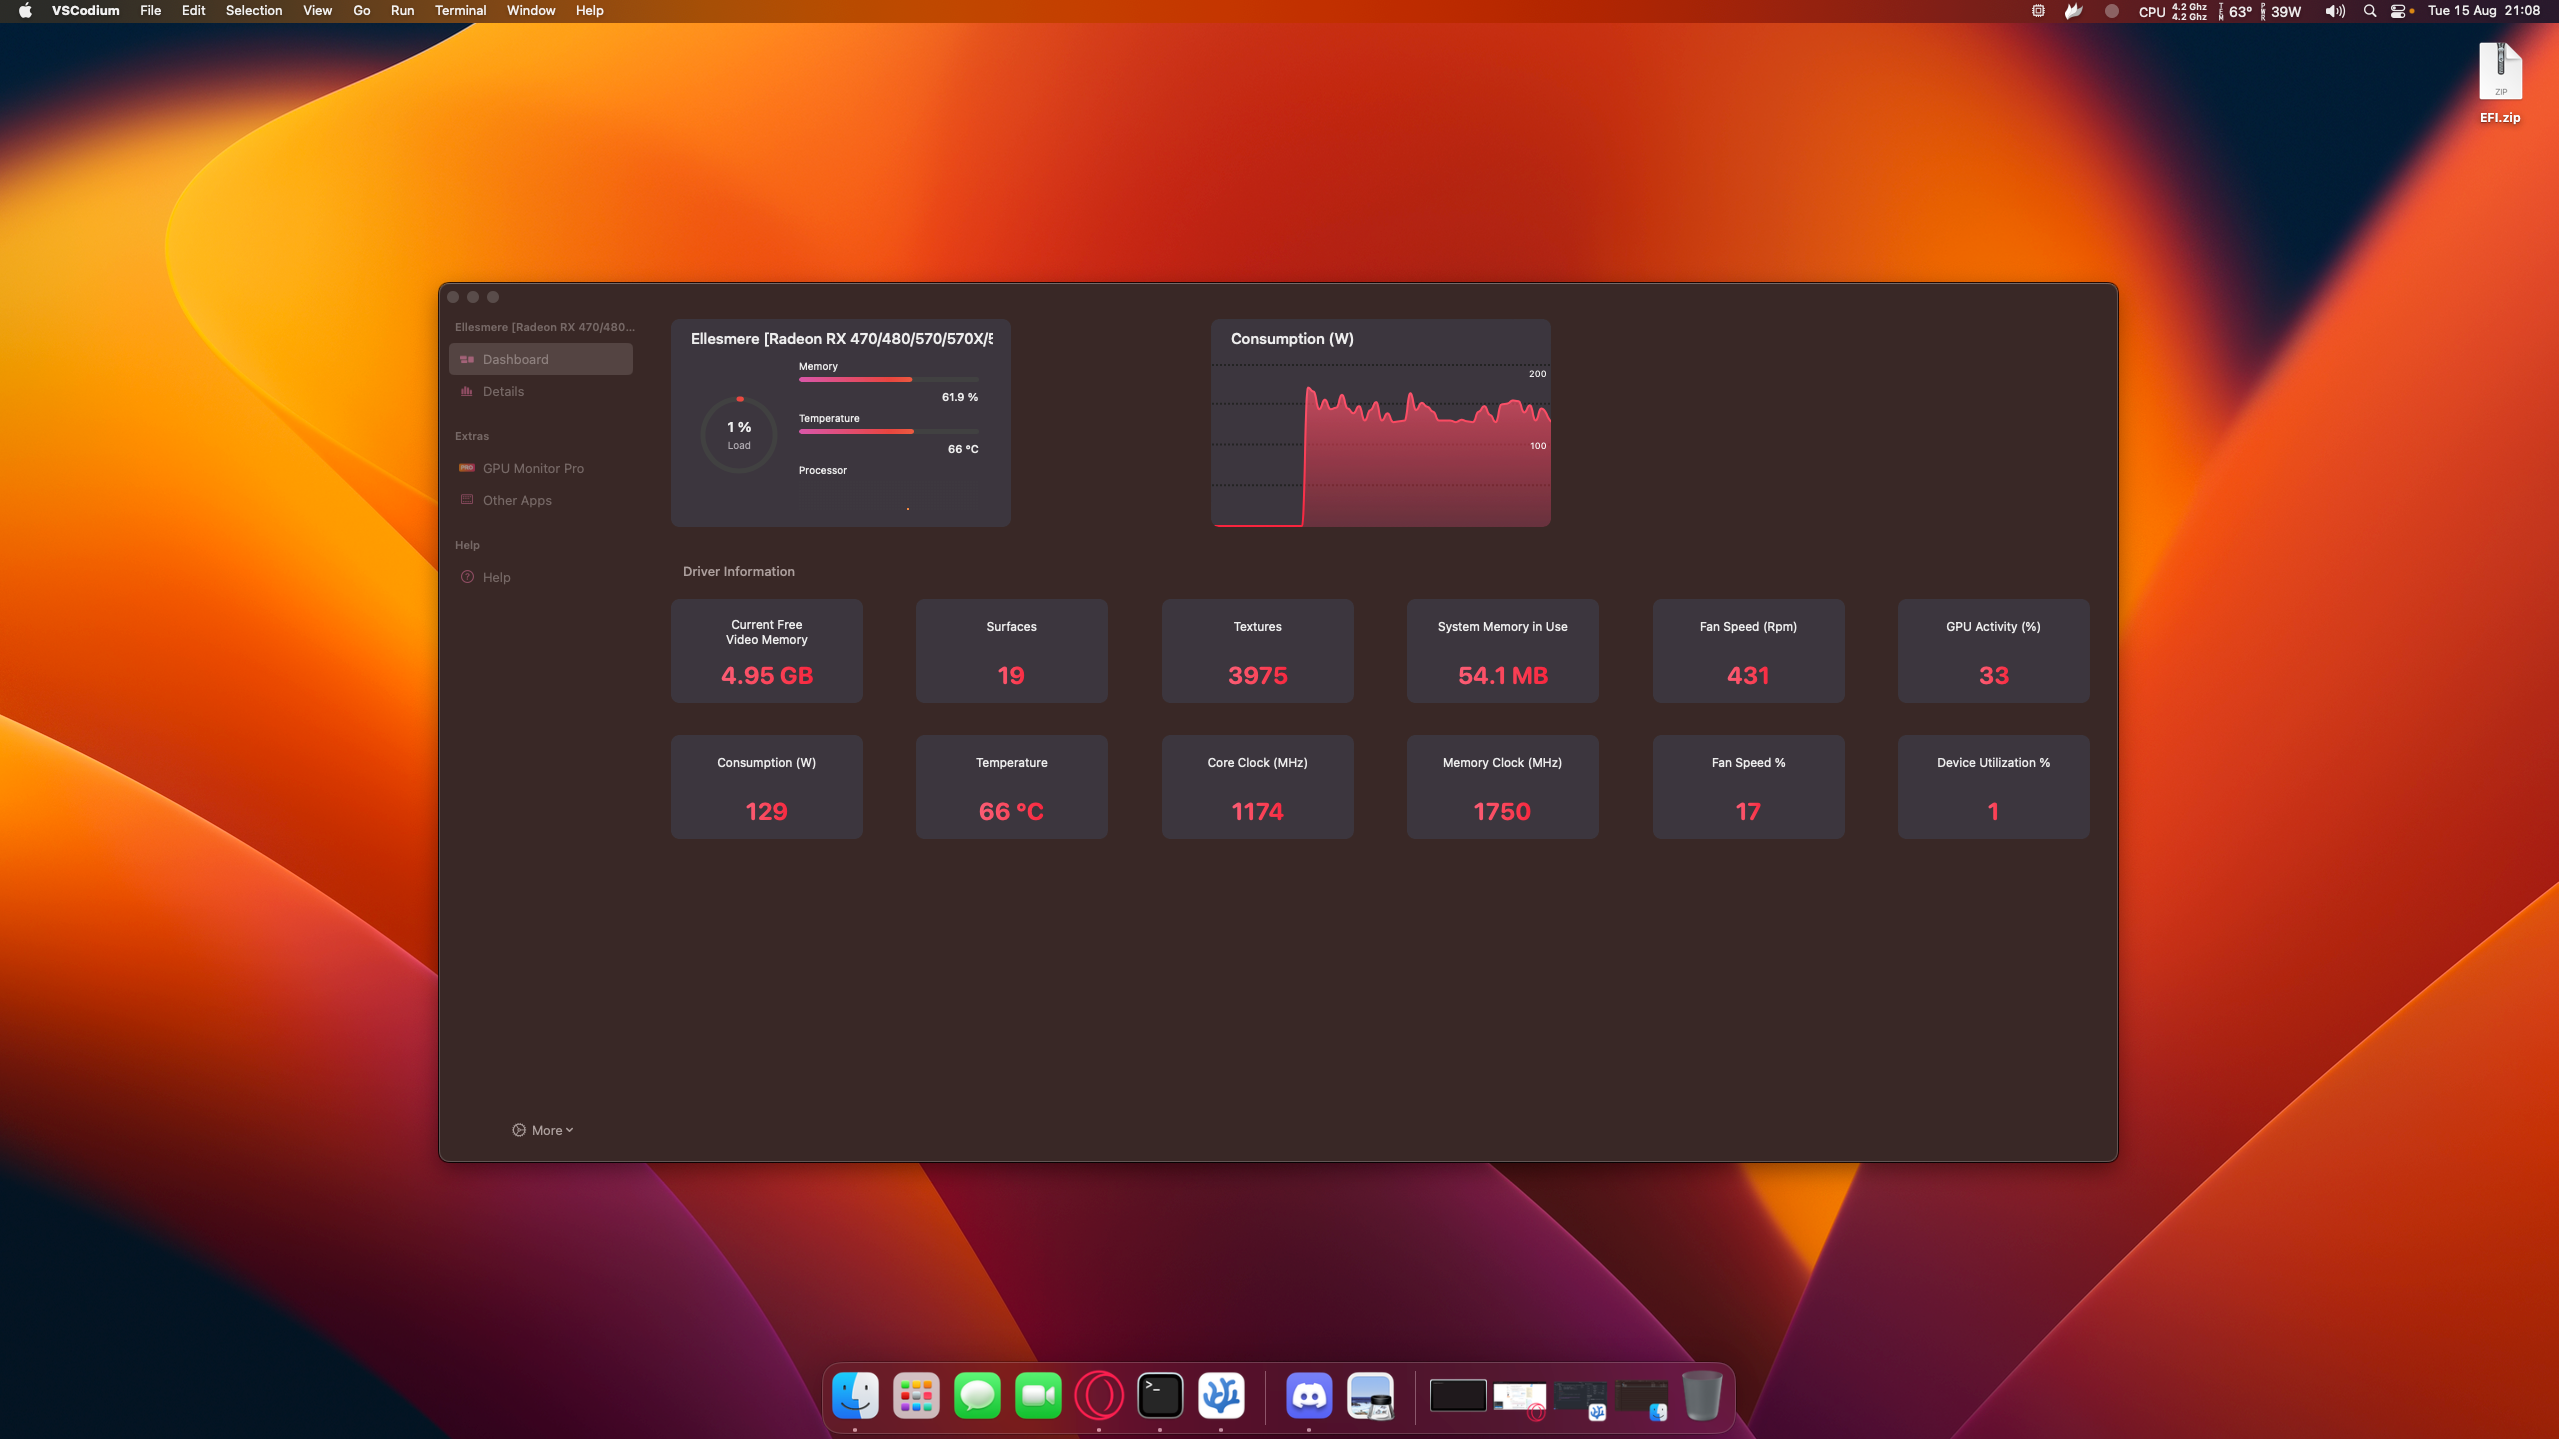
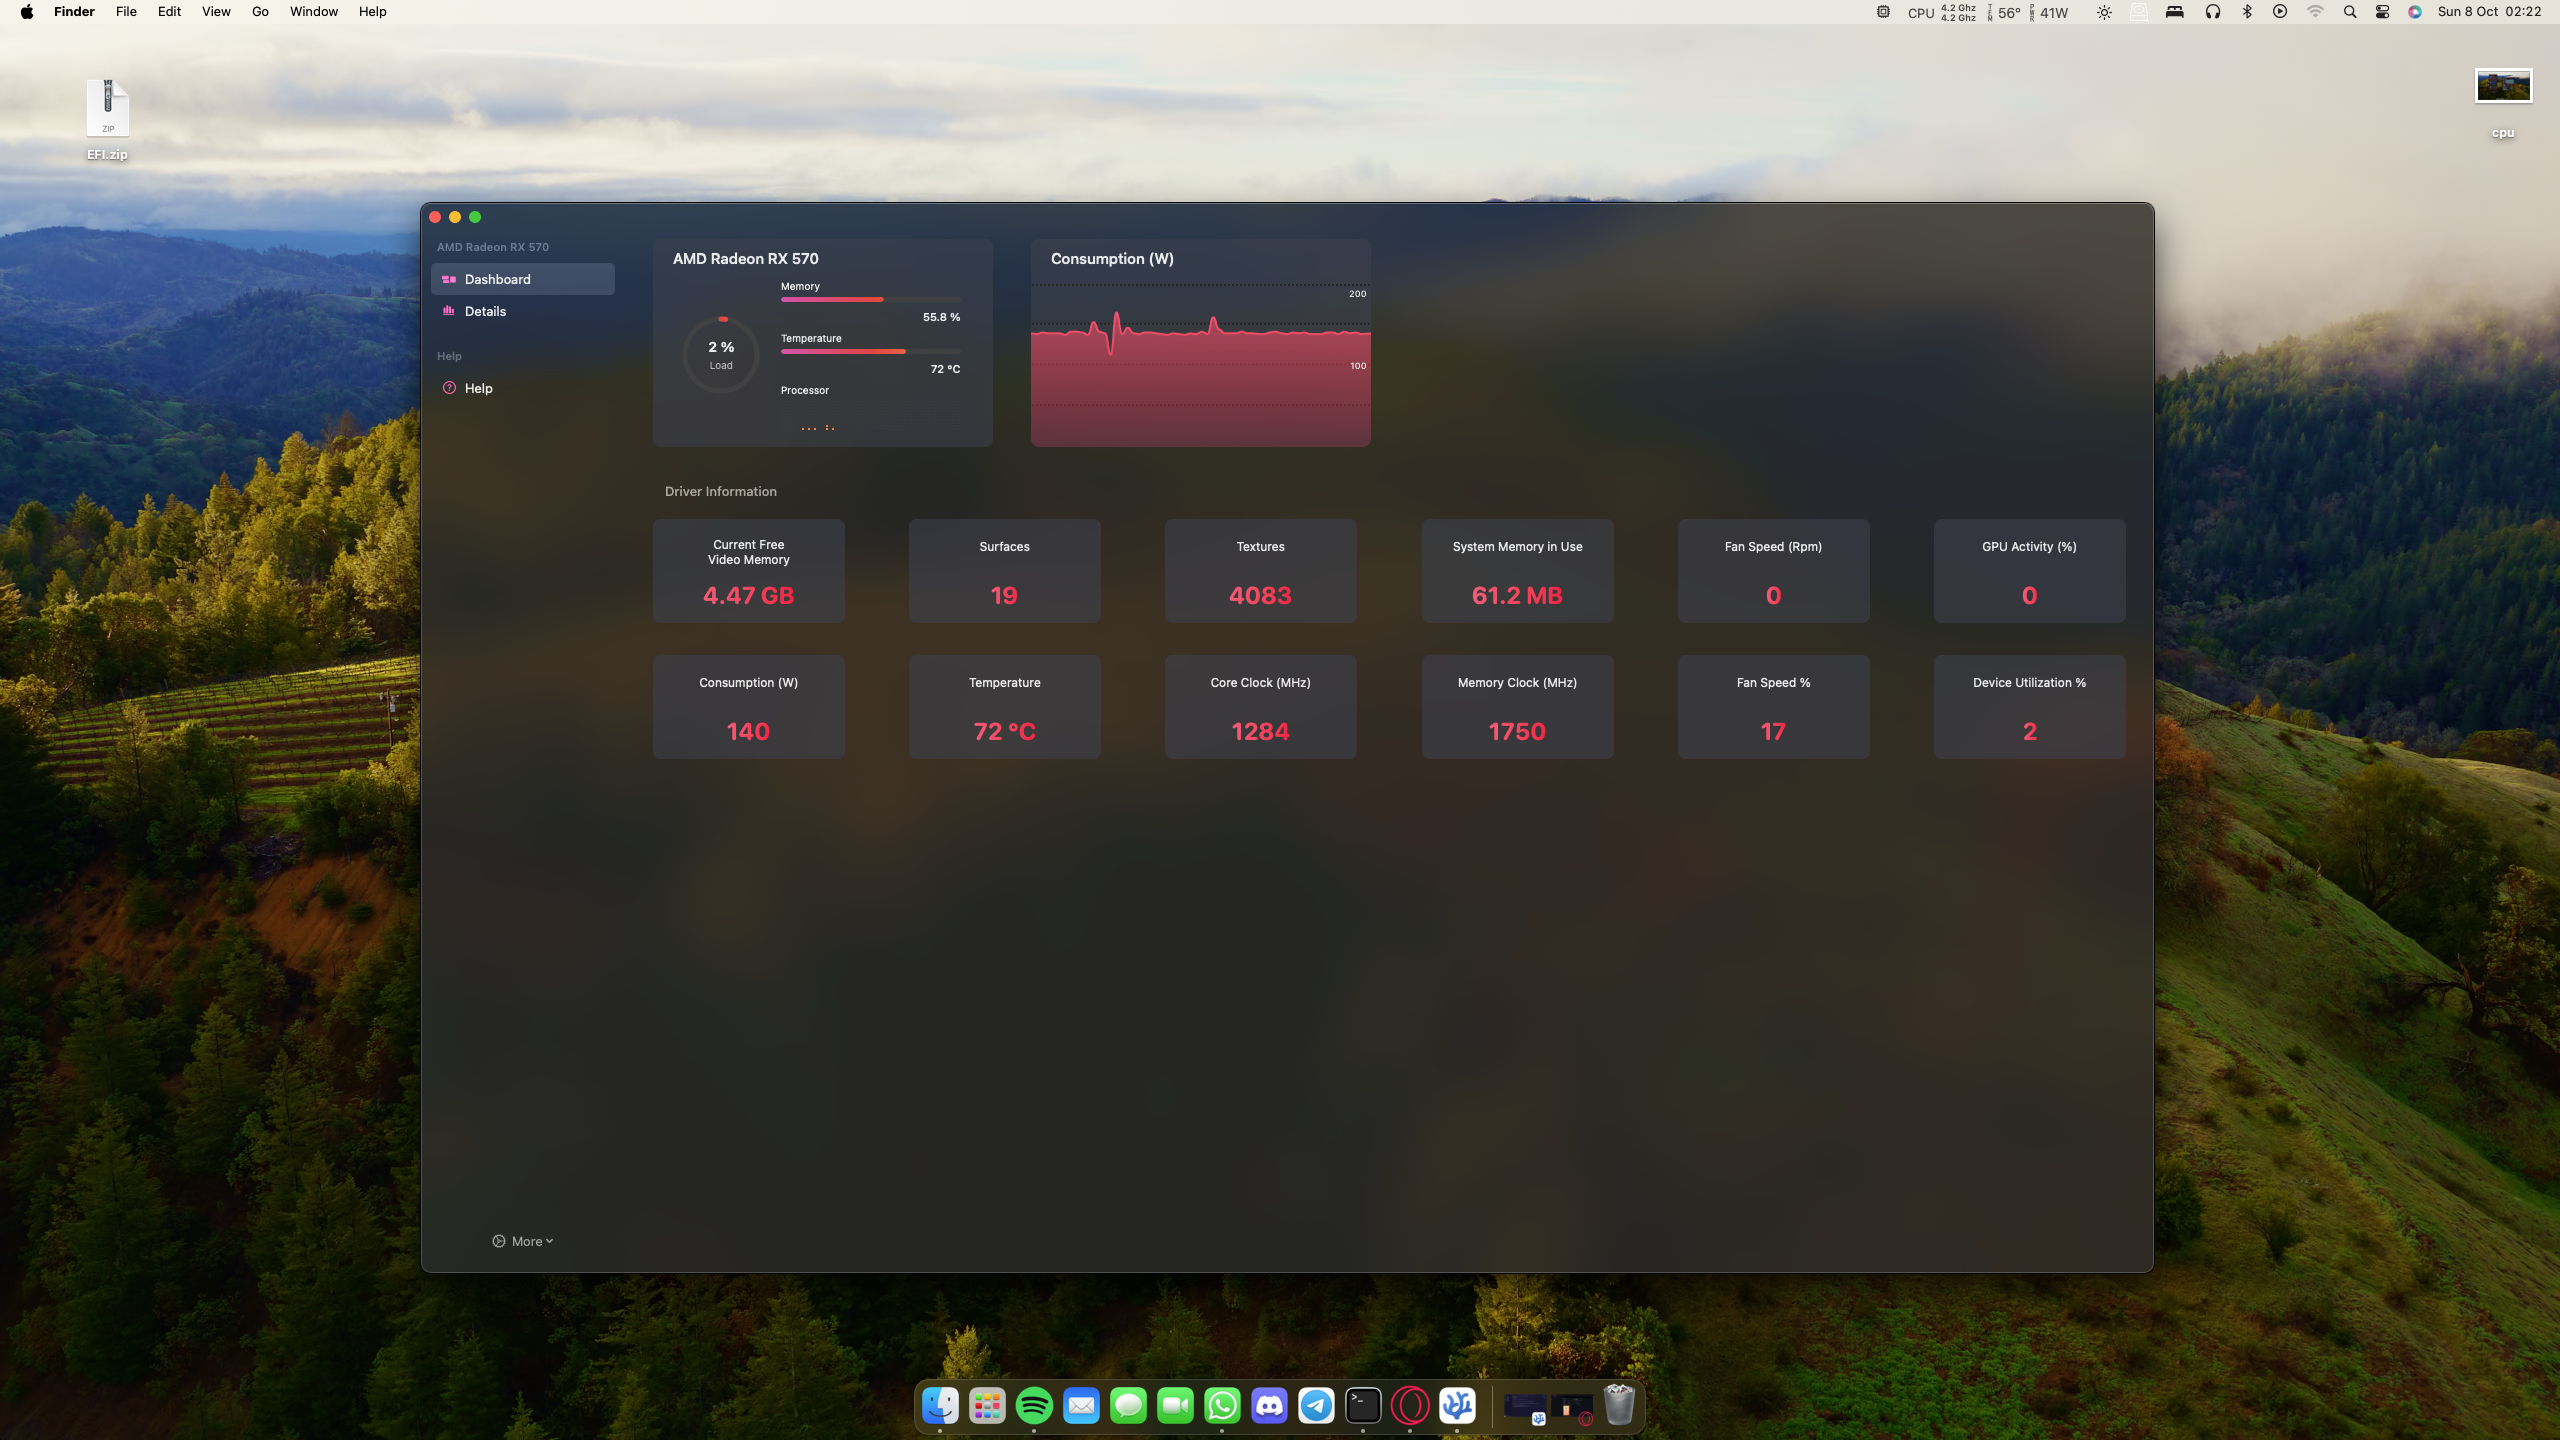
Updated to MacOS Sonoma (REL v4.0)

diff --git a/README.md b/README.md
@@ -1,13 +1,13 @@
-# Hackintosh (Ventura | OC 0.9.5)
+# Hackintosh (Sonoma | OC 0.9.5)
 
-![alt text](https://github.com/danfq/Hackintosh-Ventura-0.9.4/blob/main/Screenshots/system.png?raw=true)
+![alt text](https://github.com/danfq/Hackintosh-Sonoma-0.9.5/blob/main/Screenshots/system.png?raw=true)
 
 After quite a lot of tweaks, twists and turns, I finally made my Build 100% functional.
 
 If you have the same Build, check out the `Releases` Page to get the EFI.<br>
 Don't forget to generate your own `SMBIOS` and replace it via `ProperTree`.
 
-The only `SMBIOS` that seems to have no issues at all is `iMacPro1,1`.
+To get as much Performance out of your Ryzentosh, with these specifications, I suggest you use `iMac20,1`.
 
 ## Build Specifications
 
@@ -28,10 +28,10 @@ I've tested all `iServices` and ran benchmarks - no issues to report.
 
 ### CPU
 
-![alt text](https://github.com/danfq/Hackintosh-Ventura-0.9.4/blob/main/Screenshots/cpu.png?raw=true)
+![alt text](https://github.com/danfq/Hackintosh-Sonoma-0.9.5/blob/main/Screenshots/cpu.png?raw=true)
 
 ### GPU
-![alt text](https://github.com/danfq/Hackintosh-Ventura-0.9.4/blob/main/Screenshots/gpu.png?raw=true)
+![alt text](https://github.com/danfq/Hackintosh-Sonoma-0.9.5/blob/main/Screenshots/gpu.png?raw=true)
 
 Sometimes, `GPU Monitor Pro` will report a wrong value for "Current Free Video Memory", while there are actually 8GB in total.
 
@@ -39,12 +39,3 @@ Most of the time, this can be "fixed" by rebooting.
 
 \* This GPU <b>MUST</b> be flashed, before attempting to use it in MacOS.<br>
 Make sure to follow the steps in the `GPU Preparations` folder.
-
-### iServices
-
-#### iMessage
-
-![alt text](https://github.com/danfq/Hackintosh-Ventura-0.9.4/blob/main/Screenshots/imessage.png?raw=true)
-
-#### FaceTime
-![alt text](https://github.com/danfq/Hackintosh-Ventura-0.9.4/blob/main/Screenshots/facetime.png?raw=true)

diff --git a/GPU Preparations/README.md b/GPU Preparations/README.md
@@ -39,7 +39,7 @@ Using [GPU-Z](https://www.techpowerup.com/download/techpowerup-gpu-z/), check th
 
 It should look like this:
 
-![alt text](https://github.com/danfq/Hackintosh-Ventura-0.9.4/blob/main/GPU%20Preparations/success.png?raw=true)
+![alt text](https://github.com/danfq/Hackintosh-Sonoma-0.9.5/blob/main/GPU%20Preparations/success.png?raw=true)
 
 
 You're done!
